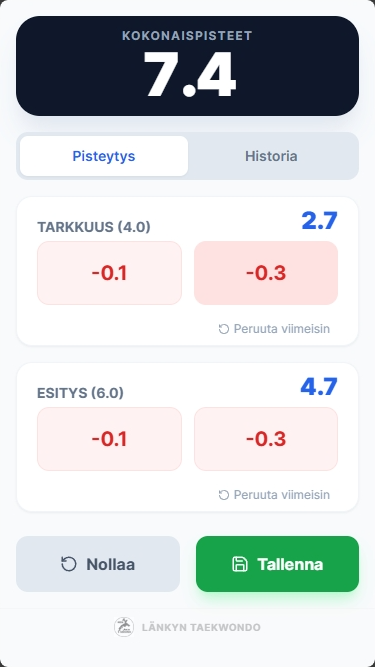
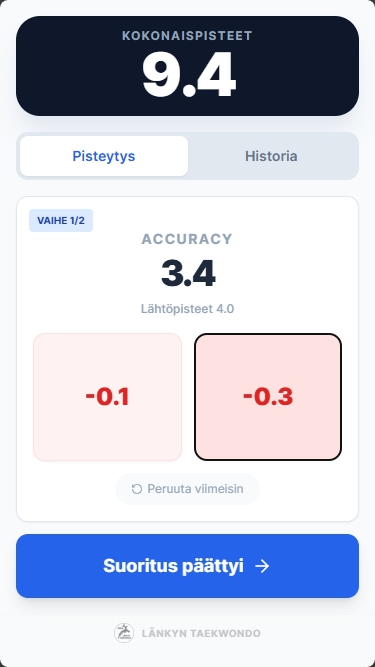
Logiikka korjattu käyttämään presentaation arvioinnissa kolmea liukusäädintä

diff --git a/src/App.vue b/src/App.vue
@@ -1,7 +1,8 @@
 <script setup>
     import { ref, computed, onMounted } from 'vue'
     import { 
-        Trophy, RotateCcw, Save, Trash2, History, X, User, Activity 
+        Trophy, RotateCcw, Save, Trash2, History, X, 
+        User, ArrowRight, ArrowLeft, Activity 
     } from 'lucide-vue-next'
     
     // --- DATALÄHTEET ---
@@ -33,19 +34,27 @@
     ]
     
     // --- TILA (STATE) ---
-    const accuracy = ref(4.0)
-    const presentation = ref(6.0)
+    const scoringStep = ref(1) // 1 = Live (Accuracy), 2 = Post (Presentation)
+    const activeTab = ref('scoring')
     
+    const accuracy = ref(4.0)
     const actionStack = ref([]) // "Smart Undo" historia
+    
+    const speedPower = ref(2.0)
+    const rhythmTempo = ref(2.0)
+    const expressionEnergy = ref(2.0)
+    
     const athleteName = ref('')
     const selectedPoomsae = ref('')
     const showSaveModal = ref(false)
-    const activeTab = ref('scoring') 
     const history = ref([])
     
     // --- LOGIIKKA ---
+    const presentationScore = computed(() => {
+        return (parseFloat(speedPower.value) + parseFloat(rhythmTempo.value) + parseFloat(expressionEnergy.value))
+    })
     
-    const totalScore = computed(() => (accuracy.value + presentation.value).toFixed(1))
+    const totalScore = computed(() => (accuracy.value + presentationScore.value).toFixed(1))
     
     onMounted(() => {
         const saved = localStorage.getItem('poomsae_history')
@@ -53,68 +62,55 @@
     })
     
     // Pisteiden vähennys
-    const deductScore = (category, amount) => {
-        const currentVal = category === 'acc' ? accuracy.value : presentation.value
-        
-        // Lasketaan teoreettinen uusi arvo
-        let newVal = currentVal + amount
+    const deductScore = (amount) => {
+        // Accuracy logic
+        let newVal = accuracy.value + amount
         let actualDeduction = amount
         
-        // Jos menisi alle nollan, leikataan nollaan
         if (newVal < 0) {
             newVal = 0
-            // TÄRKEÄÄ: Jos pisteitä oli 0.2 ja vähennys oli -0.3,
-            // todellinen vähennys oli vain -0.2. Tämä pitää tallentaa
-            // pinoon, jotta Undo palauttaa oikean määrän.
-            actualDeduction = -currentVal
+            actualDeduction = -accuracy.value 
         }
         
-        // Tallennetaan pinoon se määrä, mikä OIKEASTI vähennettiin
-        actionStack.value.push({ category, amount: actualDeduction })
-        
-        // Päivitetään tila pyöristettynä yhteen desimaaliin
-        if (category === 'acc') {
-            accuracy.value = Math.round(newVal * 10) / 10
-        } else {
-            presentation.value = Math.round(newVal * 10) / 10
-        }
+        actionStack.value.push(actualDeduction) // Tallennetaan vain määrä, koska kohde on aina Acc
+        accuracy.value = Math.round(newVal * 10) / 10
     }
     
-    // Älykäs kumoaminen (Undo)
-    const undoLastAction = (category) => {
-        // Etsitään pinosta viimeisin toiminto, joka kohdistui tähän kategoriaan
-        // Tehdään haku lopusta alkuun
-        const index = actionStack.value.findLastIndex(action => action.category === category)
-        
-        if (index !== -1) {
-            const action = actionStack.value[index]
-            
-            // Palautetaan pisteet (vähennys oli negatiivinen, joten vähennyksen vähennys on plussaa)
-            if (category === 'acc') {
-                const newVal = accuracy.value - action.amount 
-                if (newVal <= 4.0) accuracy.value = Math.round(newVal * 10) / 10
-            } else {
-                const newVal = presentation.value - action.amount
-                if (newVal <= 6.0) presentation.value = Math.round(newVal * 10) / 10
-            }
-            
-            // Poistetaan toiminto pinosta
-            actionStack.value.splice(index, 1)
+    const undoLastAction = () => {
+        const lastDeduction = actionStack.value.pop()
+        if (lastDeduction !== undefined) {
+            const newVal = accuracy.value - lastDeduction
+            if (newVal <= 4.0) accuracy.value = Math.round(newVal * 10) / 10
         }
     }
     
     const resetScore = () => {
-        if (confirm('Haluatko varmasti nollata pisteet ja aloittaa alusta?')) {
+        if (confirm('Haluatko varmasti nollata kaiken?')) {
+            scoringStep.value = 1
             accuracy.value = 4.0
-            presentation.value = 6.0
-            actionStack.value = [] // Tyhjennetään undo-historia
+            actionStack.value = []
+            // Reset presentation defaults
+            speedPower.value = 2.0
+            rhythmTempo.value = 2.0
+            expressionEnergy.value = 2.0
         }
     }
+    
+    // --- NAVIGAATIO VAIHEIDEN VÄLILLÄ ---
+    
+    const goToPresentation = () => {
+        scoringStep.value = 2
+    }
+    
+    const backToLive = () => {
+        scoringStep.value = 1
+    }
+    
+    // --- TALLENNUS ---
     
     const savePerformance = () => {
         if (!athleteName.value.trim()) return
         
-        // Etsitään poomsaen tyyppi värikoodausta varten
         const poomsaeData = POOMSAE_DATA.find(p => p.name === selectedPoomsae.value)
         const poomsaeType = poomsaeData ? poomsaeData.type : 'unknown'
         
@@ -124,21 +120,34 @@
             name: athleteName.value,
             poomsae: selectedPoomsae.value || 'Ei määritelty',
             poomsaeType: poomsaeType,
+            // Tallennetaan kaikki osatekijät
             accuracy: accuracy.value.toFixed(1),
-            presentation: presentation.value.toFixed(1),
+            presentation: presentationScore.value.toFixed(1),
+            details: {
+                speed: parseFloat(speedPower.value).toFixed(1),
+                rhythm: parseFloat(rhythmTempo.value).toFixed(1),
+                energy: parseFloat(expressionEnergy.value).toFixed(1)
+            },
             total: totalScore.value
         }
         
         history.value.unshift(newRecord)
         localStorage.setItem('poomsae_history', JSON.stringify(history.value))
         
-        // Resetoidaan tilanne tallennuksen jälkeen
+        // Reset
         showSaveModal.value = false
+        resetAfterSave()
+    }
+    
+    const resetAfterSave = () => {
         athleteName.value = ''
         selectedPoomsae.value = ''
+        scoringStep.value = 1
         accuracy.value = 4.0
-        presentation.value = 6.0
         actionStack.value = []
+        speedPower.value = 2.0
+        rhythmTempo.value = 2.0
+        expressionEnergy.value = 2.0
     }
     
     const deleteRecord = (id) => {
@@ -187,56 +196,104 @@
             </div>
     
             <div v-if="activeTab === 'scoring'" class="space-y-4 animate-fade-in">
-                
-                <div class="bg-white rounded-2xl px-5 py-2 shadow-sm border border-slate-100">
-                    <div class="flex justify-between items-end mb-1">
-                        <h2 class="font-bold text-slate-500 text-sm uppercase">Tarkkuus (4.0)</h2>
-                        <span class="text-2xl font-black text-blue-600">{{ accuracy.toFixed(1) }}</span>
+
+                <!-- Scoring Step -->
+                <div v-if="scoringStep === 1" class="flex-1 flex flex-col gap-3 animate-fade-in">
+          
+                    <div class="bg-white rounded-xl p-4 shadow-sm border border-slate-200 flex flex-col flex-1 relative">
+                        <div class="absolute top-3 left-3 bg-blue-100 text-blue-800 text-[10px] font-bold px-2 py-1 rounded">VAIHE 1/2</div>
+             
+                        <div class="flex flex-col items-center justify-center flex-1 mt-4">
+                            <h2 class="font-bold text-slate-400 text-sm uppercase tracking-widest mb-1">Accuracy</h2>
+                            <span class="text-4xl font-black text-slate-800 tracking-tighter">{{ accuracy.toFixed(1) }}</span>
+                            <span class="text-xs text-slate-400 mt-2 font-medium">Lähtöpisteet 4.0</span>
+                        </div>
+
+                        <div class="grid grid-cols-2 gap-3 h-32 mt-4">
+                            <button @click="deductScore(-0.1)" class="h-full bg-red-50 text-red-600 border border-red-100 rounded-xl font-black text-2xl active:scale-95 transition-transform hover:bg-red-100 touch-manipulation shadow-sm">
+                                -0.1
+                            </button>
+                            <button @click="deductScore(-0.3)" class="h-full bg-red-50 text-red-600 border border-red-100 rounded-xl font-black text-2xl active:scale-95 transition-transform hover:bg-red-100 touch-manipulation shadow-sm">
+                                -0.3
+                            </button>
+                        </div>
+             
+                        <div class="mt-3 flex justify-center">
+                            <button @click="undoLastAction" class="text-xs text-slate-400 flex items-center gap-1 hover:text-blue-600 py-2 px-4 rounded-full bg-slate-50">
+                                <RotateCcw :size="12" /> Peruuta viimeisin
+                            </button>
+                        </div>
                     </div>
-                    
-                    <div class="grid grid-cols-2 gap-3">
-                        <button @click="deductScore('acc', -0.1)" class="h-16 bg-red-50 text-red-600 border border-red-100 rounded-xl font-bold text-xl active:scale-95 transition-transform hover:bg-red-100">
-                            -0.1
-                        </button>
-                        <button @click="deductScore('acc', -0.3)" class="h-16 bg-red-50 text-red-600 border border-red-100 rounded-xl font-bold text-xl active:scale-95 transition-transform hover:bg-red-100">
-                            -0.3
-                        </button>
-                    </div>
-                    <div class="mt-2 flex justify-end">
-                        <button @click="undoLastAction('acc')" class="text-xs text-slate-400 flex items-center gap-1 hover:text-blue-600 pt-2 px-2 active:text-blue-800">
-                            <RotateCcw :size="12" /> Peruuta viimeisin
-                        </button>
-                    </div>
-                </div>
-                
-                <div class="bg-white rounded-2xl px-5 py-2 shadow-sm border border-slate-100">
-                    <div class="flex justify-between items-end mb-1">
-                        <h2 class="font-bold text-slate-500 text-sm uppercase">Esitys (6.0)</h2>
-                        <span class="text-2xl font-black text-blue-600">{{ presentation.toFixed(1) }}</span>
-                    </div>
-                    
-                    <div class="grid grid-cols-2 gap-3">
-                        <button @click="deductScore('pres', -0.1)" class="h-16 bg-red-50 text-red-600 border border-red-100 rounded-xl font-bold text-xl active:scale-95 transition-transform hover:bg-red-100">
-                            -0.1
-                        </button>
-                        <button @click="deductScore('pres', -0.3)" class="h-16 bg-red-50 text-red-600 border border-red-100 rounded-xl font-bold text-xl active:scale-95 transition-transform hover:bg-red-100">
-                            -0.3
-                        </button>
-                    </div>
-                    <div class="mt-2 flex justify-end">
-                        <button @click="undoLastAction('pres')" class="text-xs text-slate-400 flex items-center gap-1 hover:text-blue-600 pt-2 px-2 active:text-blue-800">
-                            <RotateCcw :size="12" /> Peruuta viimeisin
-                        </button>
-                    </div>
-                </div>
-                
-                <div class="grid grid-cols-2 gap-4 pt-2">
-                    <button @click="resetScore" class="h-14 rounded-xl font-bold text-slate-600 bg-slate-200 hover:bg-slate-300 active:scale-95 transition-transform flex items-center justify-center gap-2">
-                        <RotateCcw :size="18" /> Nollaa
+
+                    <button @click="goToPresentation" class="h-16 bg-blue-600 text-white rounded-xl font-bold text-lg shadow-lg flex items-center justify-center gap-2 active:scale-95 transition-transform">
+                        Suoritus päättyi <ArrowRight :size="20" />
                     </button>
-                    <button @click="showSaveModal = true" class="h-14 rounded-xl font-bold text-white bg-green-600 hover:bg-green-700 shadow-lg shadow-green-200 active:scale-95 transition-transform flex items-center justify-center gap-2">
-                        <Save :size="18" /> Tallenna
-                    </button>
+                </div>
+
+                <!-- Presentation Step -->
+                <div v-else class="flex-1 flex flex-col gap-4 animate-fade-in">
+                    <div class="bg-white rounded-xl p-4 shadow-sm border border-slate-200 flex-1 flex flex-col justify-between">
+                        <div class="flex justify-between items-center mb-2">
+                            <button @click="backToLive" class="text-xs font-bold text-slate-400 flex items-center gap-1"><ArrowLeft :size="12"/> Palaa</button>
+                            <div class="bg-green-100 text-green-800 text-[10px] font-bold px-2 py-1 rounded">VAIHE 2/2</div>
+                        </div>
+
+                        <div class="text-center mb-1">
+                            <h2 class="font-bold text-slate-500 text-xs uppercase tracking-widest">Presentation</h2>
+                            <div class="text-4xl font-black text-blue-600">{{ presentationScore.toFixed(1) }}</div>
+                        </div>
+
+                        <div class="space-y-1">
+                            <div>
+                                <div class="flex justify-between mb-2">
+                                    <label class="text-xs font-bold text-slate-700 uppercase">Speed & Power</label>
+                                    <span class="text-sm font-black text-slate-900">{{ parseFloat(speedPower).toFixed(1) }}</span>
+                                </div>
+                                <input 
+                                    type="range" min="0" max="2.0" step="0.1" 
+                                    v-model="speedPower"
+                                    class="w-full h-2 bg-slate-200 rounded-lg appearance-none cursor-pointer accent-blue-600"
+                                    >
+                                <div class="flex justify-between text-[10px] text-slate-400 mt-1"><span>0.0</span><span>2.0</span></div>
+                            </div>
+
+                            <div>
+                                <div class="flex justify-between mb-2">
+                                    <label class="text-xs font-bold text-slate-700 uppercase">Rhythm & Tempo</label>
+                                    <span class="text-sm font-black text-slate-900">{{ parseFloat(rhythmTempo).toFixed(1) }}</span>
+                                </div>
+                                <input 
+                                    type="range" min="0" max="2.0" step="0.1" 
+                                    v-model="rhythmTempo"
+                                    class="w-full h-2 bg-slate-200 rounded-lg appearance-none cursor-pointer accent-blue-600"
+                                    >
+                                <div class="flex justify-between text-[10px] text-slate-400 mt-1"><span>0.0</span><span>2.0</span></div>
+                            </div>
+
+                            <div>
+                                <div class="flex justify-between mb-2">
+                                    <label class="text-xs font-bold text-slate-700 uppercase">Expression of Energy</label>
+                                    <span class="text-sm font-black text-slate-900">{{ parseFloat(expressionEnergy).toFixed(1) }}</span>
+                                </div>
+                                <input 
+                                    type="range" min="0" max="2.0" step="0.1" 
+                                    v-model="expressionEnergy"
+                                    class="w-full h-2 bg-slate-200 rounded-lg appearance-none cursor-pointer accent-blue-600"
+                                    >
+                                <div class="flex justify-between text-[10px] text-slate-400 mt-1"><span>0.0</span><span>2.0</span></div>
+                            </div>
+                        </div>
+                    </div>
+
+                    <div class="grid grid-cols-2 gap-3 h-14 flex-none">
+                        <button @click="resetScore" class="bg-slate-200 text-slate-600 rounded-xl font-bold text-sm flex items-center justify-center gap-2">
+                            <RotateCcw :size="16" /> Nollaa
+                        </button>
+                        <button @click="showSaveModal = true" class="bg-green-600 text-white rounded-xl font-bold text-sm flex items-center justify-center gap-2 shadow-lg">
+                            <Save :size="16" /> Tallenna
+                        </button>
+                    </div>
+
                 </div>
             </div>
             
@@ -261,8 +318,8 @@
                     </div>
                     
                     <div class="text-xs text-slate-500 bg-slate-50 inline-block px-2 py-1 rounded">
-                        Acc: <b>{{ item.accuracy }}</b> / Pres: <b>{{ item.presentation }}</b>
-                        <span class="ml-2 text-slate-300">|</span> <span class="ml-1 text-slate-400">{{ item.date }}</span>
+                        Acc: <b>{{ item.accuracy }}</b> / Pres: <b>{{ item.presentation }}</b><br/>S&P: {{ item.details.speed }}, R&T: {{ item.details.rhythm }}, EoE: {{ item.details.energy }}
+                        <span class=" text-slate-300">|</span> <span class="text-slate-400">{{ item.date }}</span>
                     </div>
                 </div>
                 <div class="flex flex-col items-end gap-2 pl-2">

diff --git a/README.md b/README.md
@@ -4,15 +4,16 @@ Moderni ja helppokäyttöinen PWA-sovellus (Progressive Web App) Taekwondo Pooms
 
 ## 📱 Kuvakaappaukset
 
-| Pisteytys | Tallennus | Historia |
-|:---:|:---:|:---:|
-| ![Pisteytysnäkymä](./screenshots/main.png) | ![Tallennus ja liikesarja](./screenshots/save_score.png) | ![Suoritushistoria](./screenshots/score_history.png) |
-*Sovelluksen päänäkymät: Pisteytys, Suorituksen tallennus ja Historia.*
+| Tarkkuus | Presentaatio | Tallennus | Historia |
+|:---:|:---:|:---:|:---:|
+| ![Pisteytysnäkymä 1](./screenshots/main.png) | ![Pisteytysnäkymä 2](./screenshots/presentation.png) | ![Tallennus ja liikesarja](./screenshots/save_score.png) | ![Suoritushistoria](./screenshots/score_history.png) |
+*Sovelluksen päänäkymät: Pisteytys tarkkuus, pisteytys presentaatio, Suorituksen tallennus ja Historia.*
 
 ## ✨ Ominaisuudet
 
 - **Virallinen pisteytys:** Accuracy (4.0) ja Presentation (6.0) lähtöpisteet.
 - **Isot painikkeet:** Helppo käyttää katsomatta näyttöön (-0.1 ja -0.3 vähennykset).
+- **Presentaation pisteytys:** Helppo arvioida presentaatio suorituksen jälkeen virallisten osapisteiden mukaan (Speed & Power, Rhyth & Tempo, Expression of Energy)
 - **Älykäs kumoaminen (Undo):** Mahdollisuus perua viimeisin vähennys virhepainalluksen sattuessa.
 - **Liikesarjojen tuki:** Valitse suoritettava liikesarja (Gi Chu, Taegeuk 1-8, Mustien vöiden sarjat).
 - **Historia:** Tallentaa suoritukset laitteen muistiin (LocalStorage).
@@ -42,10 +43,11 @@ Sovellus toimii suoraan selaimessa, mutta parhaan käyttökokemuksen saat asenta
    - Pienet virheet: **-0.1**
    - Isot virheet: **-0.3**
 3. **Korjaus:** Jos painat väärin, paina kyseisen osion **Peruuta**-nappia palauttaaksesi pisteet.
+4. **Presentaatio:** Suorituksen jälkeen paina **Suoritus päättyi** ja anna presentaatiopisteet kolmella liukusäätimellä.
 4. **Tallennus:** Suorituksen lopuksi paina **Tallenna**.
    - Syötä kilpailijan nimi.
    - Valitse tai kirjoita liikesarja (esim. "Taegeuk 4").
-5. **Nollaus:** Voit aloittaa alusta tallentamatta painamalla **Nollaa**.
+5. **Nollaus:** Voit aloittaa alusta tallentamatta painamalla **Nollaa**. Tämä nollaa sekä presentaation, että tarkkuuden pisteet.
 6. **Historia:** Näet aiemmat suoritukset Historia-välilehdellä. Voit poistaa virheellisiä tallennuksia roskakori-ikonista.
 
 ---
